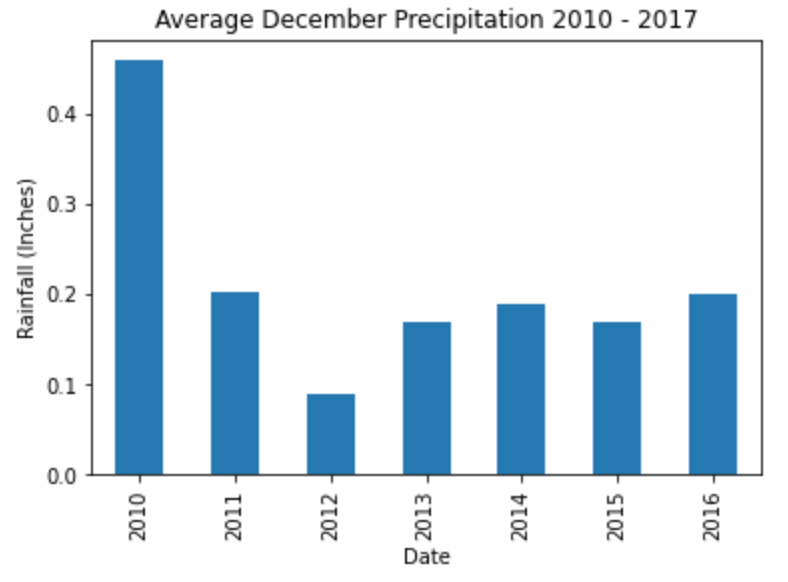
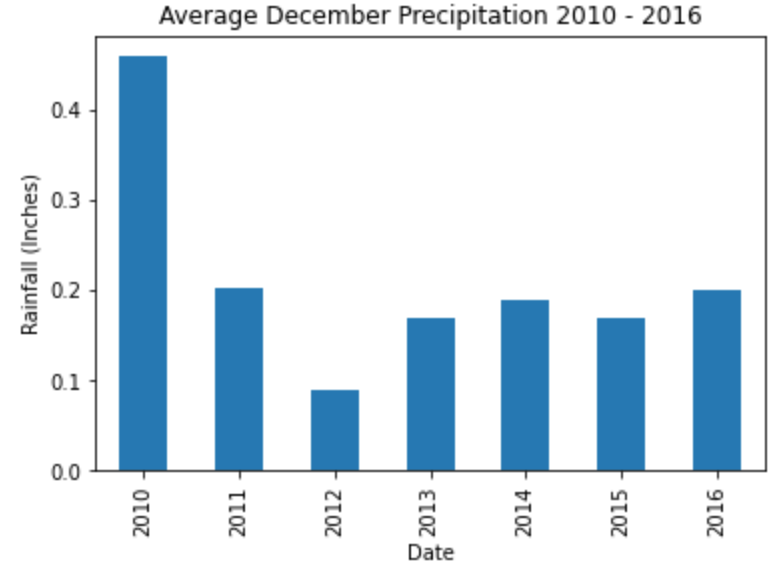
updated readme summary section and results section and added graphs

Changed region(s): [[0.0, 0.0, 0.9948, 0.9774]]

diff --git a/README.md b/README.md
@@ -16,9 +16,9 @@ The purpose of this analysis was to give the client information about temperatur
     
 ## Results
 
-The results of the temperature analysis are outlined below.
+### Temperature Analysis
 
-- There was a 200 count difference between the number of times the temperature was measured in June than in December (see table 1). There was no explanation for the difference between counts; however, the 200 count difference was not significant enough to impact the results of the analysis.
+- There was a 200 count difference between the number of times the temperature was measured in June than in December (see table 1). The data for December temperatures was not collected in 2017, which may account for this difference; however, the 200 count difference was not significant enough to impact the results of the analysis.
 
 - There was a slight but insignificant difference between the average temperature in the month of June versus the month of December (see table 1). June has an average temperature of 74.9°F with a mean of 75°F. December shows an average temperature of 71°F with the same mean. The temperatures in these months seem consistently high enough for a surf and ice cream .
 
@@ -26,14 +26,15 @@ The results of the temperature analysis are outlined below.
 
 <img src="https://github.com/jisellejones/surfs_up/blob/main/Images/temp_table.png" width="200" height="200">
 
-- December had a greater range of temperatures, dipping into the 50° temperatures where most of the temperatures in June range between 73°F and 83°F
+- The histograms show the frequency of temperatures in December and June. December had a greater range of temperatures, dipping into the 50° temperatures where most of the temperatures in June range between 73°F and 83°F. Although there are 
 
 <img src="https://github.com/jisellejones/surfs_up/blob/main/Images/histogram_june_temps.png" width="300" height="200">      <img src="https://github.com/jisellejones/surfs_up/blob/main/Images/histogram_dec_temps.png" width="300" height="200">
 
+### Precipitation Analysis
 
-A secondary analysis was run on precipitation amounts in the months of June and December by year to determine if there are any trends in the amount of rainfall that may influence the number of people who might need surf gear and/or may want an ice cream snack.
+A secondary analysis was run on the precipitation amounts in the months of June and December by year to determine if there are any trends in the amount of rainfall that may influence the number of people who might need surf gear and/or may want an ice cream snack.
 
-- 
+- The bar graphs show the average amount of rainfall in June for 2010 - 2017 and December for 2010 - 2016. Average rainfall across the years in both months is below 0.25 inches except in December in 2010. Research was conducted on the December 2010 rainfall data and has been summarized in the summary section.
 
 <img src="https://github.com/jisellejones/surfs_up/blob/main/Images/bar_graph_june_prcp.png" width="300" height="200">      <img src="https://github.com/jisellejones/surfs_up/blob/main/Images/bar_graph_dec_prcp.png" width="300" height="200">
 
@@ -41,6 +42,6 @@ A secondary analysis was run on precipitation amounts in the months of June and 
 
 Overall it seems that O'ahu is a good place for a surf and ice cream shop. While the data suggests that June may be a more ameable month for surfing and ice cream eating with most temperatures ranging between 73°F and 83°F, the bulk of days in December are 70°F or above. 
 
-The precipitation analysis performed on the June and December rainfall amounts offers further evidence that a surf and shake shop may be successful
+The precipitation analysis performed on the June and December rainfall amounts offers further evidence that a surf and shake shop has the potential to be successful as data suggests little rainfall during these months with the exception of rainfall amounts in the month of December.
 
-There was a concerning increase in the amount of rainfall in 2010, however, upon further investigation, we found that there was an unusual weather event causing heavy rainfall to hit the island of O'ahu in December of 2010. While this weather event was unusual for the island, it may be worth researching how frequently heavy rainfalls occur during other months of the year. It may also be a good idea to an analysis on the other months of the year to determine if there is a particular month or season where inclement weather often occurs and may not be ideal conditions for surfing or ice cream eating.
+There was a concerning increase in the amount of rainfall in 2010. Upon further investigation, we found that there was an unusual weather event causing heavy rainfall to hit the island of O'ahu in December of 2010. While this weather event was unusual for the island, it may be worth researching how frequently heavy rainfalls have occured on the island over the last 30 - 50 years. It may also be a good idea to run an analysis on the other months of the year to determine if there is a particular month or season where inclement weather often occurs and may not be ideal conditions for surfing or ice cream eating.
